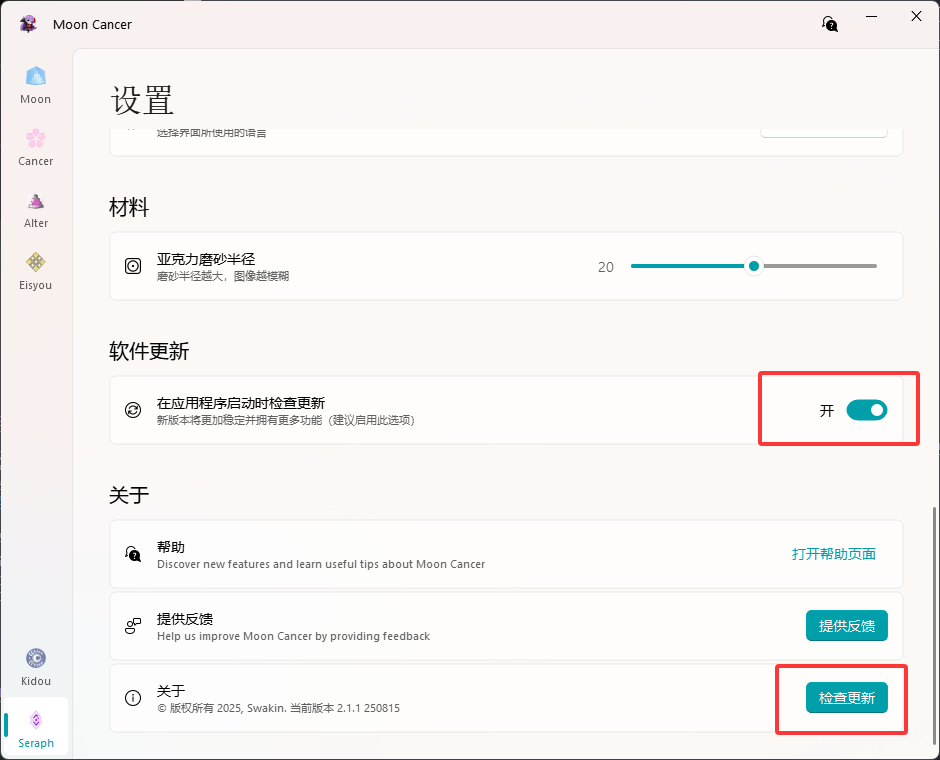
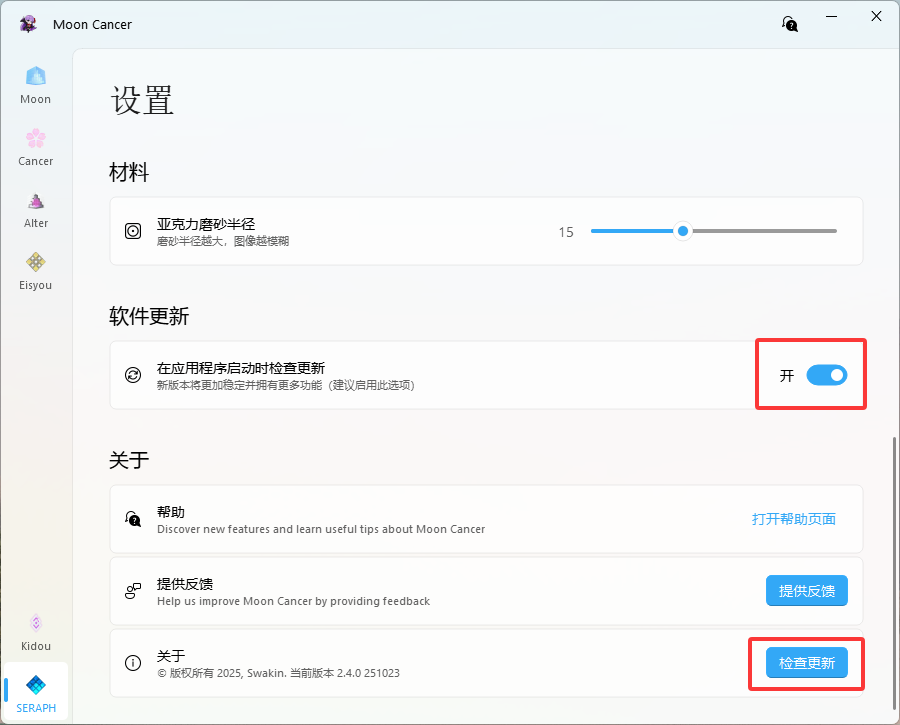
v2.4.0

diff --git a/src/content/posts/MoonCancer0.md b/src/content/posts/MoonCancer0.md
@@ -11,13 +11,14 @@ draft: false
 
 ## 功能简介
 
-- `日常任务`：打开模拟器，打开游戏，抽每日友情池，打白纸化或戴冠战结束，也可以在主页开始
-- `开始战斗`：无烦恼刷各种副本，复杂的机制关可能不能正常通关，建议手动修改根据机制来完成战斗
-- `过主线`：自动过主线，可以选择朗读剧情，或者跳过剧情，部分情况可以要手动调整重新启动任务
-- `清理free本`：自动清理free本(We Are Free!)
-- `Cancer`：局内数值修改器，只能在战斗中使用，用来手动修改数值
-- `Alter`：提供更灵活的方式修改局内数值，主要用来打圣杯战线
-- `Eisyou`：随机分配角色朗读剧情，可以挂着当相声听
+- [`日常任务`](../mooncancer1#日常任务)：打开模拟器，打开游戏，抽每日友情池，打白纸化或戴冠战结束
+- [`开始战斗`](../mooncancer1#开始战斗)：无烦恼刷各种周回或完成当前战斗
+- [`过主线`](../mooncancer1#过主线)：自动过主线，可以选择朗读剧情，或者跳过剧情
+- [`清理free本`](../mooncancer1#清理free本)：自动清理free本(We Are Free!)
+- [`首通关卡`](../mooncancer1#首通关卡)：清理幕间，进阶关卡，回忆关卡等一切需要通关拿奖励的情况
+- [`Cancer`](../mooncancer2)：局内数值修改器，只能在战斗中使用，用来手动修改数值
+- [`Alter`](../mooncancer3)：提供更灵活的方式修改局内数值，主要用来打圣杯战线
+- [`Eisyou`](../mooncancer4)：随机分配角色朗读剧情，可以挂着当相声听
 - `Kidou`：打开模拟，再打开游戏进入到主界面
 
 **只支持国服和日服安卓模拟器使用（能在模拟器上登录即可用，包括渠道服、IOS也可也在模拟器上登录）**
@@ -34,13 +35,6 @@ draft: false
 ## 界面展示
 ![main.png](../../assets/images/mooncaner/main.png)
 ![maindark.png](../../assets/images/mooncaner/maindark.png)
-## 界面说明
-右上角的帮助图标可以打开`帮助`弹窗，有问题随时可以查看，如果觉得有帮助可以赞助我一点。<br>
-在启动任意任务后会出现`暂停`按钮，可以暂停执行中的任务。点击下面链接可查看每个界面具体说明：<br>
-[Moon界面说明](../mooncancer1)<br>
-[Cancer界面说明](../mooncancer2)<br>
-[Alter界面说明](../mooncancer3)<br>
-[Eisyou界面说明](../mooncancer4)<br>
 ## 下载安装
 群文件下载`Updater.exe`，新建一个文件夹，将文件放到里面，例如`MoonCaner/Updater.exe`，然后运行`Updater.exe`，就会自动下载安装，同时也是更新程序
 ## 更新方式
@@ -48,12 +42,21 @@ draft: false
 - 手动检测更新，在设置->关于->检查更新
 ![update](../../assets/images/mooncaner/update.png)
 - 运行程序根目录的`Updater.exe`
+## 使用说明
+- 先同时运行模拟器和Moon Cancer，在Seraph(设置)中先选中你的模拟器类型，然后点搜索，成功的话选择对应的设备，下面的设置就会自动设置完成，日服或渠道服还需要更改服务器类型然后点设置更改包名。具体设置说明请看[连接设置](#连接设置)，然后根据需求设置好[脚本设置](../mooncancer1#脚本设置)就可以点击[对应功能](../mooncancer1#基本功能)运行脚本了
+- 右上角的帮助图标可以打开`帮助`弹窗，有问题随时可以查看，如果觉得有帮助可以赞助我一点。<br>
+- 在启动任意任务后会出现`暂停`按钮，可以暂停执行中的任务。点击下面链接可查看每个界面具体说明：<br>
+[Moon界面说明](../mooncancer1)<br>
+[Cancer界面说明](../mooncancer2)<br>
+[Alter界面说明](../mooncancer3)<br>
+[Eisyou界面说明](../mooncancer4)<br>
+
 ## 模拟器设置
 - 使用其他模拟器理论上可行，但推荐MuMu或雷电，这两个适配了高速连接，本身玩fgo也比较稳定，MuMu现在官网已经只能下载到新版了，想用旧版这里有历史版本[MuMu模拟器历史版本](https://www.cnblogs.com/wutou/p/18165628)
 - 模拟器用16：9的分辨率，1280x720起步，分辨率过低可能无法识别，最重要的mumu模拟器关闭后台保活，其他模拟器可能也有一些导致无法正常截图的设置
 ![mooncanermumusetting](../../assets/images/mooncaner/mumusetting.png)
 
-## 脚本设置
+## 连接设置
 :::important
 请在设置之前打开要使用的模拟器，多开的情况要保证目标模拟器先启动，不然修改数值会失败
 :::
@@ -78,12 +81,7 @@ draft: false
 ## 游戏内设置
 - 记得打开**筛选**（我该不会是最后一个知道的吧），**加快敌人消失速度**，**战斗二倍速**。筛选可以减少找到目标礼装的时间，不过现在羁绊礼装太多，午茶反而排到羁绊礼装的最后面去了
 ![filter](../../assets/images/mooncaner/filter.png)
-## 其他说明
-- 要自动白纸化每日，请尽量保持界面干净，保证要打的关卡已经开启，部分关卡依赖奏章Ⅱ定位（例如90⭐），所以至少要打完奏章Ⅰ，才能使用所有选项
-![ordercall](../../assets/images/mooncaner/ordercall.png)
 
-- 强化任务只要设置足够的次数理论上可以一次性打完，但有些有多个强化本的，开放时会有弹窗，可能会导致卡住，这个情况不好触发，暂时没适配，需要手动处理一下
-![enhancequest](../../assets/images/mooncaner/enhancequest.png)
 ## 其他问题
 - 如果开始后连接出现如下错误，而且执行的非常慢，请先卸载模拟器内的`yosemite`应用，然后重试
 

diff --git a/src/content/posts/MoonCancer1.md b/src/content/posts/MoonCancer1.md
@@ -10,14 +10,16 @@ draft: false
 *MoonCaner脚本的启动界面，点击 `会赢的`标签会打开我的博客*<br>
 
 ## 基本功能
-
+可用左右切换当前显示的功能
 ### 日常任务
 
 整个流程包括打开模拟器，启动游戏，抽每日免费友情池(可关闭)，完成每日三次白纸化或冠位战(设置中的本)，`默认使用1号编队`，使用前请设置好编队。也可以在主界面或者只运行了模拟器开始。每天可以直接点一下就下线，长草期也不麻烦，轻松攒石头<br>
-
+- 要自动白纸化每日，请尽量保持界面干净，保证要打的关卡已经开启，部分关卡依赖奏章Ⅱ定位（例如90⭐），所以至少要打完奏章Ⅰ，才能使用所有选项
+![ordercall](../../assets/images/mooncaner/ordercall.png)
+- 日常冠位戴冠战请先完成对应的冠位认定战，默认进入最下方的关卡
 ### 开始战斗
 
-自动刷各种本，主要是能连续战斗的，或是强化本或者free本那样回到主界面右上角也有本可以点的情况，在Seraph(设置)里设置好战斗次数，礼装类型，是否要清理剩余体力，就可以点击开始了。可以在进入战斗前的选择助战，队伍设置和进入战斗后开始，也可以在主界面选本界面开始，但要保证要刷的本在第一个位置。<br>
+自动刷各种本，主要是能连续战斗的，或是强化本(更推荐使用[`首通关卡`](#首通关卡))或者free本那样回到主界面右上角也有本可以点的情况，在Seraph(设置)里设置好战斗次数，礼装类型，是否要清理剩余体力，就可以点击开始了。复杂的机制关可能不能正常通关，建议手动修改根据机制来完成战斗。可以在进入战斗前的选择助战，队伍设置和进入战斗后开始，也可以在主界面选本界面开始，但要保证要刷的本在第一个位置。<br>
 
 ### 过主线
 
@@ -44,6 +46,13 @@ draft: false
 
 自动清理free本(We Are Free!)。同样**不要改变地图缩放，保持进入地图后的默认缩放，有缩放过的重新进图**，进入地图就可以点开始了，**第七异闻带**  地图不适配，可以手动选关卡，固定三次战斗完成
 ![freequest](../../assets/images/mooncaner/freequest.png)
+
+### 首通关卡
+
+以当前列表关卡是否已获得奖励为基准，清理幕间，进阶关卡，回忆关卡等一切需要通关拿奖励的情况
+- 默认跳过所有剧情，想听剧情请灵活使用[`过主线`](#过主线)和[`Eisyou`](../mooncancer4)，无奖励的周回本不适用只会浪费体力。
+- 进阶关卡狼人杀等机制关可能卡关，需要手动通关；
+- 回忆关卡部分关卡在边缘位置需要手动点一下进入关卡列表，有些关卡通关后会回到地图也需要手动点一下回到关卡列表，因为是主线关卡，所以也会遇到强制马修助战会卡住，某些自动编队的情况也可能打乱现有编队，请注意
 
 ## 脚本设置
 设置主页运行任务的具体参数，可展开折叠

diff --git a/src/content/posts/MoonCancer.md b/src/content/posts/MoonCancer.md
@@ -13,6 +13,11 @@ draft: false
 [Cancer界面说明](../mooncancer2)<br>
 [Alter界面说明](../mooncancer3)<br>
 [Eisyou界面说明](../mooncancer4)<br>
+## 2025年10月23日v2.4.0
+1.更新主页UI，更改任务布局，优化使用体验<br>
+2.新增首通关卡，清理幕间，进阶关卡，回忆关卡，以及一切需要通关拿奖励的情况<br>
+3.适配日服杀阶戴冠战日常<br>
+4.优化代码，解决部分卡住的情况
 ## 2025年10月18日v2.3.6
 1.优化日常抽免费，适配每日抽多个友情池<br>
 2.优化日常队伍确认，避免触发游戏bug<br>
